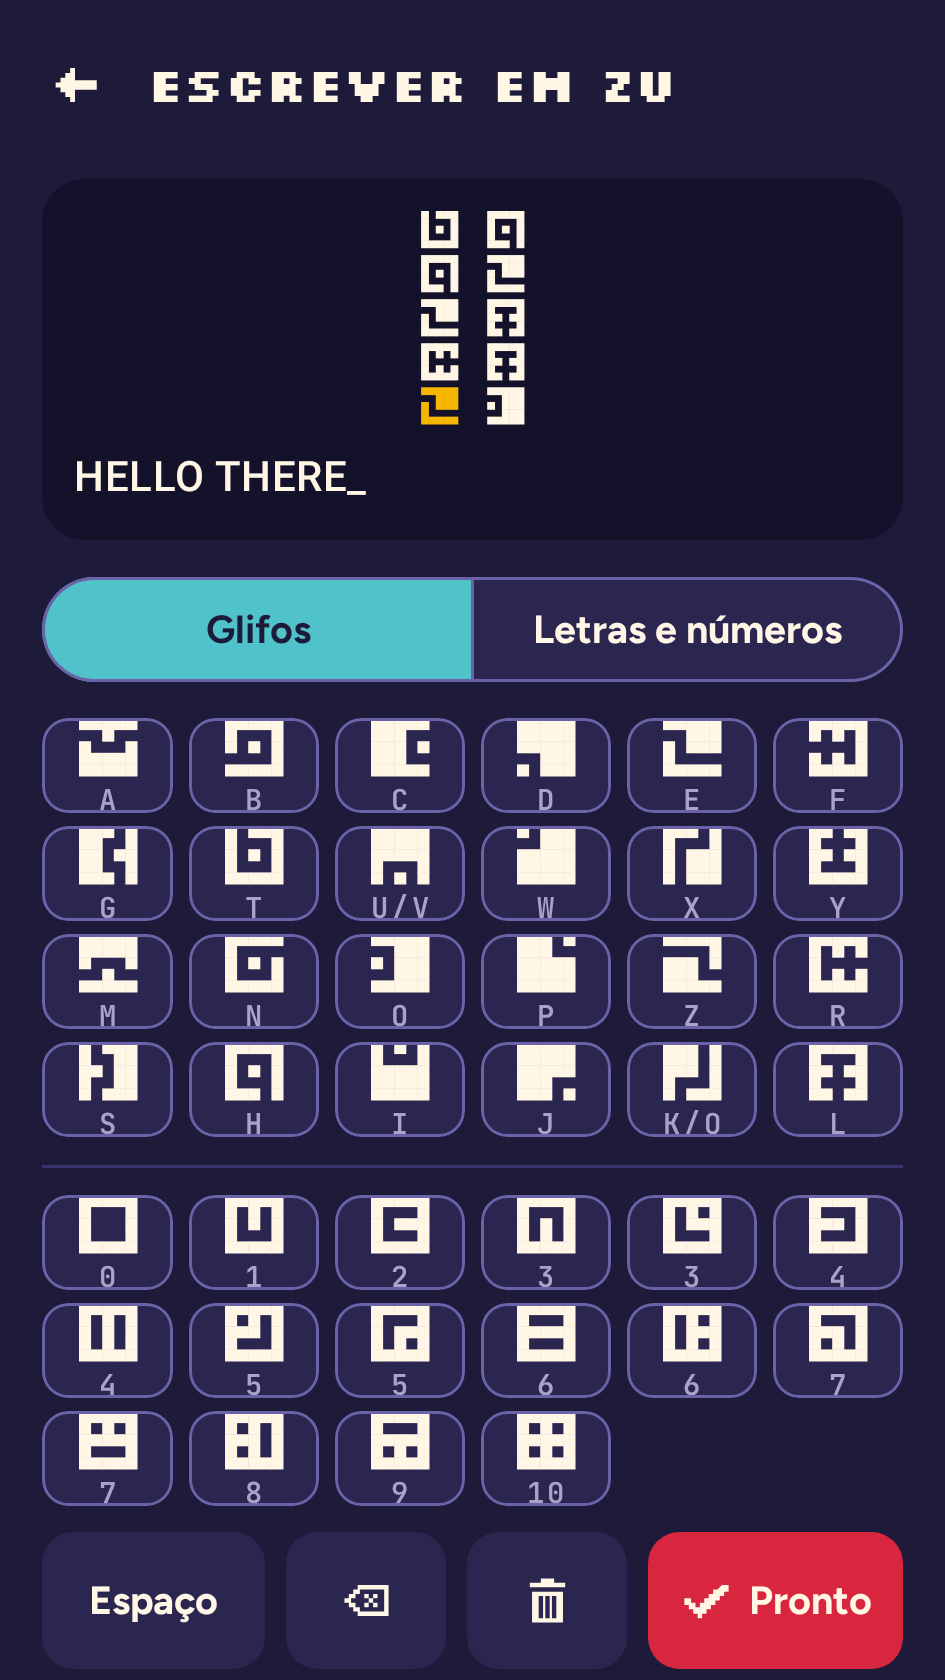
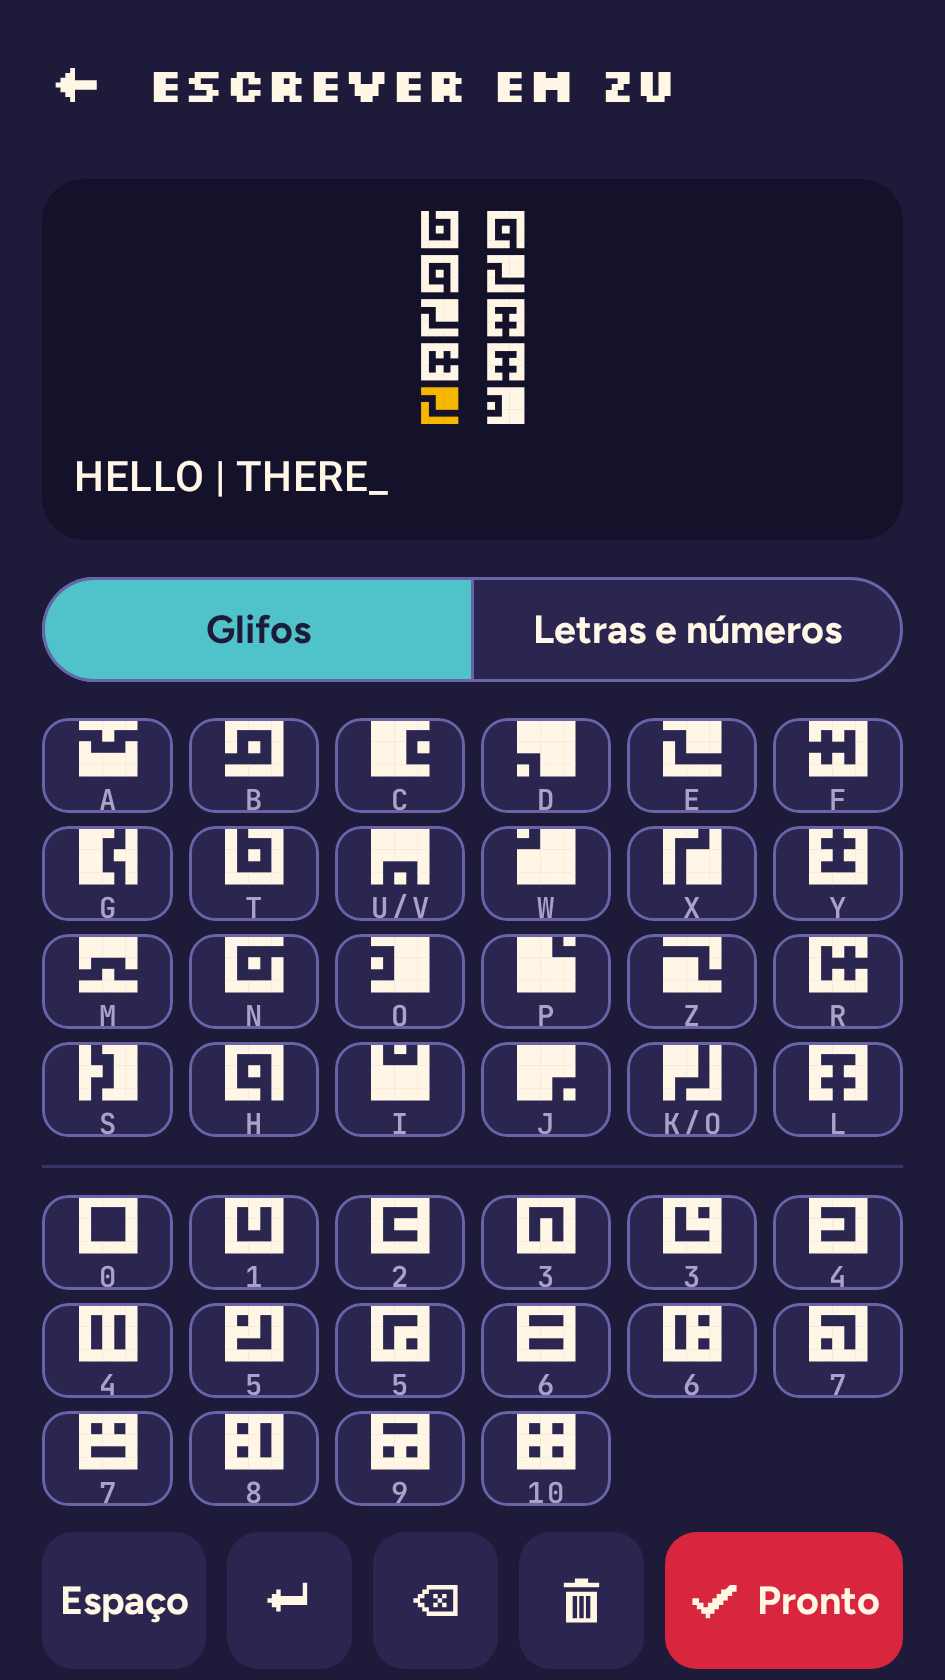
Write by hand: new column key; Zu message always readable
A "new column" key (new line in horizontal reading) starts the next glyph
at the top of a new column; ZuLayout honours "\n" and ZuWriter keeps it.
The Zu message keeps whole columns visible at the largest size the
height allows; when they do not all fit, the newest columns are shown.
The English line shows the end of the message.

Claude-Session: https://claude.ai/code/session_01BCnJVnooueZi2qjpizvg1o

diff --git a/app/src/main/kotlin/com/davicolzer/zureader/ui/write/WriteScreen.kt b/app/src/main/kotlin/com/davicolzer/zureader/ui/write/WriteScreen.kt
@@ -38,6 +38,7 @@ import androidx.compose.runtime.setValue
 import androidx.compose.ui.Alignment
 import androidx.compose.ui.Modifier
 import androidx.compose.ui.draw.clip
+import androidx.compose.ui.draw.clipToBounds
 import androidx.compose.ui.geometry.Offset
 import androidx.compose.ui.geometry.Size
 import androidx.compose.ui.graphics.Color
@@ -128,10 +129,10 @@ fun WriteScreen(
                 // sem nada escrito, a dica usa a área toda (cabe em tela pequena)
                 if (message.isNotEmpty()) {
                     Text(
-                        ReadingMode.MIXED.display(message) + "_",
+                        englishLine(message, text.endsWith('\n')),
                         style = MaterialTheme.typography.titleMedium,
                         color = MaterialTheme.colorScheme.onBackground,
-                        maxLines = 2,
+                        maxLines = 1,
                         overflow = TextOverflow.Ellipsis,
                         modifier = Modifier.fillMaxWidth().semantics { contentDescription = message },
                     )
@@ -172,8 +173,16 @@ fun WriteScreen(
             }
 
             Row(horizontalArrangement = Arrangement.spacedBy(8.dp)) {
-                ActionKey(stringResource(R.string.write_space), null, Modifier.weight(1.4f)) {
-                    if (text.isNotEmpty() && !text.endsWith(' ')) text += ' '
+                ActionKey(stringResource(R.string.write_space), null, Modifier.weight(1.3f)) {
+                    if (text.isNotEmpty() && !text.endsWith(' ') && !text.endsWith('\n')) text += ' '
+                }
+                ActionKey(
+                    stringResource(if (direction == ReadingDirection.VERTICAL_RIGHT_TO_LEFT) R.string.write_new_column else R.string.write_new_line),
+                    R.drawable.ic_pixel_newline,
+                    Modifier.weight(1f),
+                ) {
+                    // próxima coluna (ou linha); não começa com quebra nem repete espaço antes dela
+                    if (message.isNotEmpty()) text = text.trimEnd(' ') + '\n'
                 }
                 ActionKey(stringResource(R.string.write_delete), R.drawable.ic_pixel_backspace, Modifier.weight(1f)) {
                     text = text.dropLast(1)
@@ -182,7 +191,7 @@ fun WriteScreen(
                 ActionKey(
                     stringResource(R.string.write_done),
                     R.drawable.ic_pixel_check,
-                    Modifier.weight(1.6f),
+                    Modifier.weight(1.9f),
                     container = MaterialTheme.colorScheme.primary,
                     content = MaterialTheme.colorScheme.onPrimary,
                     showLabel = true,
@@ -194,8 +203,21 @@ fun WriteScreen(
     }
 }
 
+/** O texto em inglês com cursor; mensagem longa mostra o final (onde o usuário está digitando). */
+private fun englishLine(message: String, endsWithBreak: Boolean): String {
+    val full = ReadingMode.MIXED.display(message).replace("\n", " | ") + (if (endsWithBreak) " | " else "")
+    return (if (full.length > ENGLISH_MAX) "…" + full.takeLast(ENGLISH_MAX) else full) + "_"
+}
+
+/** Quantos caracteres do texto em inglês mostrar (o final). */
+private const val ENGLISH_MAX = 26
+
 /** Espaço mínimo da mensagem em Zu. */
-private val MESSAGE_MIN = 150.dp
+private val MESSAGE_MIN = 170.dp
+
+/** Tamanho dos glifos na mensagem: nunca menor (legível) nem maior que isto. */
+private val PREVIEW_MIN_GLYPH = 26.dp
+private val PREVIEW_MAX_GLYPH = 44.dp
 
 /** Altura do resto da tela fora as teclas: escolha Glifos/Letras, linha de ações, separação e espaços. */
 private val FIXED_PARTS = 190.dp
@@ -264,16 +286,25 @@ private fun ZuPreview(message: String, direction: ReadingDirection, modifier: Mo
                 textAlign = TextAlign.Center,
             )
         } else {
-            Canvas(Modifier.fillMaxSize()) {
+            Canvas(Modifier.fillMaxSize().clipToBounds()) {
                 val half = glyphs.first().size / 2
                 val minX = glyphs.minOf { it.x } - half
                 val maxX = glyphs.maxOf { it.x } + half
                 val minY = glyphs.minOf { it.y } - half
                 val maxY = glyphs.maxOf { it.y } + half
-                // escala para caber, sem passar de 40 dp por glifo
-                val scale = minOf(size.width / (maxX - minX), size.height / (maxY - minY), 40.dp.toPx() / (2 * half))
-                val offX = (size.width - (maxX - minX) * scale) / 2
-                val offY = (size.height - (maxY - minY) * scale) / 2
+                // tamanho: cabe tudo se der; se não, a coluna (ou linha) inteira continua cabendo e
+                // as colunas mais recentes ficam à vista; nunca maior que PREVIEW_MAX_GLYPH
+                val fitAll = minOf(size.width / (maxX - minX), size.height / (maxY - minY))
+                val fitLine = if (direction == ReadingDirection.VERTICAL_RIGHT_TO_LEFT) size.height / (maxY - minY) else size.width / (maxX - minX)
+                val scale = minOf(maxOf(fitAll, minOf(fitLine, PREVIEW_MIN_GLYPH.toPx() / (2 * half))), PREVIEW_MAX_GLYPH.toPx() / (2 * half))
+                val contentW = (maxX - minX) * scale
+                val contentH = (maxY - minY) * scale
+                // se não couber, a parte mais recente fica à vista (o último glifo no centro)
+                val newest = glyphs.last()
+                fun place(content: Float, area: Float, lastPos: Float) =
+                    if (content <= area) (area - content) / 2 else (area / 2 - lastPos * scale).coerceIn(area - content, 0f)
+                val offX = place(contentW, size.width, newest.x - minX)
+                val offY = place(contentH, size.height, newest.y - minY)
                 val cell = 2 * half * scale / 5
                 glyphs.forEachIndexed { i, g ->
                     val left = offX + (g.x - half - minX) * scale

diff --git a/core/zu/src/main/kotlin/com/davicolzer/zureader/zu/ZuLayout.kt b/core/zu/src/main/kotlin/com/davicolzer/zureader/zu/ZuLayout.kt
@@ -89,14 +89,28 @@ object ZuLayout {
         size: Float = 10f,
         glyphs: GlyphSet = ZuAlphabet,
     ): List<PlacedGlyph> {
-        val words = text.uppercase().split(Regex("\\s+"))
-            .map { word -> word.filter(glyphs::contains) }
-            .filter { it.isNotEmpty() }
+        // "\n" força uma coluna (ou linha) nova; dentro de cada trecho, as palavras vão
+        // enchendo a coluna até [maxPerLine] glifos, sem cortar palavras
         val lines = mutableListOf<MutableList<String>>()
-        for (word in words) {
-            val line = lines.lastOrNull()
-            val used = line?.sumOf { it.length + 1 }?.minus(1) ?: 0
-            if (line != null && used + 1 + word.length <= maxPerLine) line += word else lines += mutableListOf(word)
+        for (paragraph in text.uppercase().split('\n')) {
+            val words = paragraph.split(Regex("\\s+"))
+                .map { word -> word.filter(glyphs::contains) }
+                .filter { it.isNotEmpty() }
+            if (words.isEmpty()) {
+                // quebra seguida de quebra: deixa uma coluna vazia
+                if (lines.isNotEmpty()) lines += mutableListOf<String>()
+                continue
+            }
+            var line: MutableList<String>? = null
+            for (word in words) {
+                val used = line?.sumOf { it.length + 1 }?.minus(1) ?: 0
+                if (line != null && used + 1 + word.length <= maxPerLine) {
+                    line += word
+                } else {
+                    line = mutableListOf(word)
+                    lines += line
+                }
+            }
         }
 
         val pitch = PITCH * size

diff --git a/core/vision/src/main/kotlin/com/davicolzer/zureader/vision/ZuWriter.kt b/core/vision/src/main/kotlin/com/davicolzer/zureader/vision/ZuWriter.kt
@@ -21,9 +21,15 @@ object ZuWriter {
     private const val BLOCK_PX = 10
     private const val MARGIN_BLOCKS = 4
 
-    /** Só letras, números (o 10 é `#`) e um espaço entre palavras, em maiúsculas. */
+    /**
+     * Só letras, números (o 10 é `#`), um espaço entre palavras e `\n` onde o usuário quebrou a
+     * coluna (ou linha), em maiúsculas. Quebras no começo ou no fim não contam.
+     */
     fun normalize(text: String): String =
-        text.uppercase().filter { ZuMixed.contains(it) || it.isWhitespace() }.trim().split(Regex("\\s+")).filter { it.isNotEmpty() }.joinToString(" ")
+        text.uppercase().split('\n')
+            .map { line -> line.filter { ZuMixed.contains(it) || it.isWhitespace() }.trim().split(Regex("\\s+")).filter { it.isNotEmpty() }.joinToString(" ") }
+            .joinToString("\n")
+            .trim('\n')
 
     /** Escrita, números ou os dois, pelo que o texto tem. */
     fun modeOf(text: String): ReadingMode {
@@ -52,6 +58,7 @@ object ZuWriter {
         val minX = placed.minOf { it.x - size / 2 }
         val minY = placed.minOf { it.y - size / 2 }
         val symbols = clean.filter { !it.isWhitespace() }
+        check(symbols.length == placed.size) { "Glifos e símbolos não batem" }
         val glyphs = placed.mapIndexed { i, g ->
             val left = (g.x - size / 2 - minX).roundToInt() + margin
             val top = (g.y - size / 2 - minY).roundToInt() + margin

diff --git a/core/vision/src/test/kotlin/com/davicolzer/zureader/vision/ZuWriterTest.kt b/core/vision/src/test/kotlin/com/davicolzer/zureader/vision/ZuWriterTest.kt
@@ -43,4 +43,20 @@ class ZuWriterTest {
         assertNull(ZuWriter.write("  "))
         assertEquals("", ZuWriter.normalize("!? "))
     }
+
+    @Test
+    fun `quebra de coluna`() {
+        // cabe numa coluna de 6, mas a quebra manda QUICK para a próxima
+        val (_, result) = ZuWriter.write("THE\nQUICK")!!
+        assertEquals("THE\nQUICK", result.reading.text)
+        val g = result.reading.glyphs
+        assertEquals(g[0].source.x, g[2].source.x)
+        // colunas da direita para a esquerda: a segunda coluna fica à esquerda, começando no topo
+        assert(g[3].source.x < g[0].source.x)
+        assertEquals(g[0].source.y, g[3].source.y)
+        // quebras nas pontas não contam; espaços em volta da quebra somem
+        assertEquals("THE\nQUICK", ZuWriter.normalize("\nthe \n quick\n"))
+        // salva e abre igual
+        assertEquals(result.reading.text, ReadingCodec.decode(ReadingCodec.encode(result)).reading.text)
+    }
 }

diff --git a/docs/PLANO.md b/docs/PLANO.md
@@ -148,7 +148,7 @@ Fontes: **Silkscreen** (títulos e texto lido, pixel), **Figtree** (interface), 
 | **6b. Modelo treinado (opcional)** 🧪 | Testado: rede pequena (MLP 16×16 → 96 → 24 glifos + "não é glifo") treinada com numpy em ~93 mil recortes sintéticos degradados + glifos das paredes reais (gerador `GlyphNetDataGenerator`, script `tools/train_glyphnet.py`); 99,3% na validação. No leitor, ela resgatava glifos borrados e descartava lixo | **Não entrou no app**: nas lápides (fora do treino) o resultado oscilou — lápide 2 inteira subiu de 79% para 95%, mas as recortadas caíram (95% → 84% e 69% → 13%); restringir a correção a grades parecidas não deixou nenhuma variante melhor em todas as fotos. Retomar com mais fotos reais de lápides/pedra para treino |
 | **7. Tradução (opcional)** | ML Kit Translation EN → PT no aparelho, mostrando inglês e português | Só se o projeto decidir retomar a tradução |
 | **8. Números** ✅ | Seletor **Auto / Escrita / Números** (Auto é o padrão: lê em paralelo como escrita, como números e **misturado** — letras e números na mesma frase, ex.: "ROOM 12" —, uma thread por modo, e fica com a leitura de nota maior; a mista só vale com letras e números confiantes no mesmo bloco e letras iguais às da leitura só de escrita; nenhuma letra tem moldura completa e o par mais parecido, B e 0, difere em 2 quadradinhos) na tela inicial e na câmera (fica salvo). Modo números: 16 desenhos (0–10 e variantes de 3–7, todos com moldura e miolo 3×3), sem modelo do inglês, orientação da foto; resultado "3 10 7 / 1 2", correção com teclado 0–10; o modo fica salvo na leitura do histórico; exemplos aprendidos separados por modo | Testes: 16 desenhos distintos com moldura, cada um reconhecido; números em colunas, com ruído, em imagem com borrão/ruído/JPEG e colorida; modo escrita não devolve números; leitura salva guarda o modo (e as antigas abrem como escrita). Tabela real dos números do jogo (0–10, enviada pelo usuário) bate com os 16 desenhos e é lida inteira no modo Auto (`RealNumbersTest`). Placas da biblioteca (números encostados numa faixa em relevo): fatiadas de 4 em 4 blocos; recortadas, são lidas como números. **Falta**: gabarito dos dígitos dessas placas e leitura sem recorte |
-| **9. Escrever à mão (teclado Zu)** ✅ | **Terceira opção na tela inicial** ("Escrever à mão"), no mesmo nível de "Fotografar" e "Escolher da galeria". Tudo numa tela só, sem rolagem (a mensagem ocupa o espaço que o teclado deixa; cabe em 360×640 dp). Dois jeitos de digitar: **Glifos** (para quem copia do jogo e não sabe o que os glifos significam: organizados pelo desenho em 6 colunas, uma coluna por forma e uma linha por rotação, `ZuAlphabet.shapes`, e embaixo, depois de uma separação, todos os 16 desenhos de números, com as variantes de 3 a 7; K/Q e U/V numa tecla só, com a letra escolhida pelo contexto do inglês e atualizada enquanto digita, como na leitura de foto, `SharedLetters`) ou **Letras e números** (A–Z e, depois de uma separação, 0–10, um de cada, com K e Q separados; cada tecla mostra a letra e o glifo dela). 6 teclas por linha, com altura que se ajusta à tela (46 dp, até 36 dp em tela baixa, para a mensagem em Zu continuar com espaço); Espaço, Apagar, Limpar e Pronto numa linha, Espaço, Apagar e Limpar tudo; em cima, a mensagem em Zu em colunas (como no jogo, na direção de leitura escolhida, último glifo em dourado) e o texto em inglês. "Pronto" abre a tela de resultado (copiar, compartilhar, salvar no histórico, zoom); voltar reabre o teclado com o texto. A leitura é exata (`ZuWriter`): o texto montado vira a leitura sem passar pelo leitor de imagens | Testes: texto vira imagem e leitura exata (K/Q do usuário mantido; o leitor de imagens lê a mesma coisa na imagem gerada), números e misto, caixas em cima dos glifos desenhados, salvar e abrir igual. Capturas: [tela inicial](design/home-escrever-android.png), [teclado](design/escrever-vazio-android.png), [glifos](design/escrever-texto-android.png), [letras e números](design/escrever-letras-android.png), [tela pequena](design/escrever-pequeno-android.png), [resultado](design/escrever-resultado-android.png) |
+| **9. Escrever à mão (teclado Zu)** ✅ | **Terceira opção na tela inicial** ("Escrever à mão"), no mesmo nível de "Fotografar" e "Escolher da galeria". Tudo numa tela só, sem rolagem (a mensagem ocupa o espaço que o teclado deixa; cabe em 360×640 dp). Dois jeitos de digitar: **Glifos** (para quem copia do jogo e não sabe o que os glifos significam: organizados pelo desenho em 6 colunas, uma coluna por forma e uma linha por rotação, `ZuAlphabet.shapes`, e embaixo, depois de uma separação, todos os 16 desenhos de números, com as variantes de 3 a 7; K/Q e U/V numa tecla só, com a letra escolhida pelo contexto do inglês e atualizada enquanto digita, como na leitura de foto, `SharedLetters`) ou **Letras e números** (A–Z e, depois de uma separação, 0–10, um de cada, com K e Q separados; cada tecla mostra a letra e o glifo dela). 6 teclas por linha, com altura que se ajusta à tela (46 dp, até 36 dp em tela baixa, para a mensagem em Zu continuar com espaço); Espaço, Nova coluna (na leitura horizontal, Nova linha: o próximo glifo começa uma coluna nova), Apagar, Limpar e Pronto numa linha. A mensagem em Zu fica sempre legível: as colunas aparecem inteiras, com os glifos do maior tamanho que a altura permite, e se não couberem todas aparecem as mais recentes (onde o usuário está digitando); o texto em inglês mostra o final, Espaço, Apagar e Limpar tudo; em cima, a mensagem em Zu em colunas (como no jogo, na direção de leitura escolhida, último glifo em dourado) e o texto em inglês. "Pronto" abre a tela de resultado (copiar, compartilhar, salvar no histórico, zoom); voltar reabre o teclado com o texto. A leitura é exata (`ZuWriter`): o texto montado vira a leitura sem passar pelo leitor de imagens | Testes: texto vira imagem e leitura exata (K/Q do usuário mantido; o leitor de imagens lê a mesma coisa na imagem gerada), números e misto, caixas em cima dos glifos desenhados, salvar e abrir igual. Capturas: [tela inicial](design/home-escrever-android.png), [teclado](design/escrever-vazio-android.png), [glifos](design/escrever-texto-android.png), [letras e números](design/escrever-letras-android.png), [tela pequena](design/escrever-pequeno-android.png), [mensagem longa](design/escrever-longo-android.png), [resultado](design/escrever-resultado-android.png) |
 
 ### Dados de teste
 
